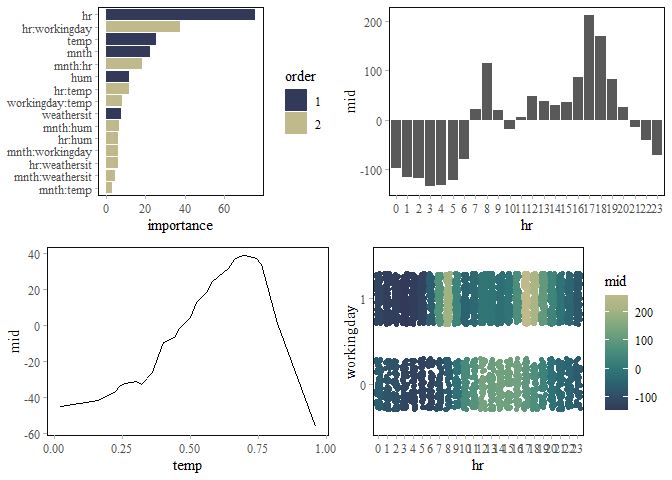
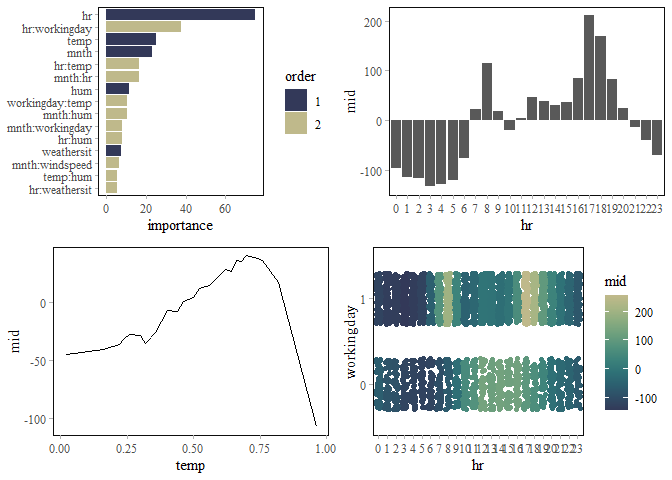
version 0.1.0.904 - update README.rmd

diff --git a/README.md b/README.md
@@ -30,14 +30,10 @@ pak::pak("ryo-asashi/midnight")
 This is a basic example which shows you how to solve a common problem:
 
 ``` r
-library(parsnip)
+library(tidymodels)
 library(midr)
 library(midnight)
-library(ggplot2)
 library(gridExtra)
-library(tune)
-library(rsample)
-library(dplyr)
 library(ISLR2)
 theme_set(theme_midr())
 ```
@@ -57,20 +53,11 @@ valid <- testing(holdout)
 
 ``` r
 # create a first-order mid surrogate model
-mid_spec_1 <- mid_surrogate(
-  params_main = 25, penalty = .1
-) %>%
+mid_spec_1 <- mid_surrogate() %>%
   set_mode("regression") %>%
-  set_engine("midr", verbosity = 0)
+  set_engine("midr")
 mid_spec_1
 #> mid surrogate Model Specification (regression)
-#> 
-#> Main Arguments:
-#>   penalty = 0.1
-#>   params_main = 25
-#> 
-#> Engine-Specific Arguments:
-#>   verbosity = 0
 #> 
 #> Computational engine: midr
 # fit the model
@@ -81,41 +68,47 @@ mid_1
 #> 
 #> 
 #> Call:
-#> interpret(x = x, y = y, weights = weights, k = k, lambda = penalty,
-#>  verbosity = ..1)
+#> interpret(x = x, y = y, weights = weights, k = k, lambda = penalty)
 #> 
 #> Intercept: 146.06
 #> 
 #> Main Effects:
 #> 7 main effect terms
 #> 
-#> Uninterpreted Variation Ratio: 0.30267
+#> Uninterpreted Variation Ratio: 0.30041
 # evaluate the model
-rmse <- weighted.loss(valid$bikers, predict(mid_1$fit, valid))
-cat(sprintf("\nRMSE: %.3f", rmse))
-#> 
-#> RMSE: 73.072
+augment(mid_1, new_data = valid) %>%
+  rmse(truth = bikers, estimate = .pred)
+#> # A tibble: 1 × 3
+#>   .metric .estimator .estimate
+#>   <chr>   <chr>          <dbl>
+#> 1 rmse    standard        72.9
 ```
+
+``` r
+grid.arrange(nrow = 2,
+ ggmid(mid.importance(mid_1$fit), theme = "moon", max.nterms = 15),
+ ggmid(mid_1$fit, "hr"),
+ ggmid(mid_1$fit, "temp"),
+ ggmid(mid_1$fit, "mnth")
+)
+```
+
+<img src="man/figures/README-ggmid_1d_fit-1.png" width="100%" />
 
 ``` r
 # create a second-order mid surrogate model via "custom formula"
 mid_spec_2 <- mid_surrogate(
-  params_main = 25, params_inter = 5, penalty = .1,
-  custom_formula = bikers ~ .^2
+  penalty = 0.000001, custom_formula = bikers ~ .^2
 ) %>%
   set_mode("regression") %>%
-  set_engine("midr", verbosity = 0)
+  set_engine("midr")
 mid_spec_2
 #> mid surrogate Model Specification (regression)
 #> 
 #> Main Arguments:
-#>   penalty = 0.1
-#>   params_main = 25
-#>   params_inter = 5
+#>   penalty = 1e-06
 #>   custom_formula = bikers ~ .^2
-#> 
-#> Engine-Specific Arguments:
-#>   verbosity = 0
 #> 
 #> Computational engine: midr
 # fit the model
@@ -127,7 +120,7 @@ mid_2
 #> 
 #> Call:
 #> interpret(formula = bikers ~ .^2, data = data, weights = weights,
-#>  verbosity = ..1, k = k, lambda = penalty)
+#>  k = k, lambda = penalty)
 #> 
 #> Intercept: 146.06
 #> 
@@ -137,12 +130,14 @@ mid_2
 #> Interactions:
 #> 21 interaction terms
 #> 
-#> Uninterpreted Variation Ratio: 0.076418
+#> Uninterpreted Variation Ratio: 0.069436
 # evaluate the model
-rmse <- weighted.loss(valid$bikers, predict(mid_2$fit, valid))
-cat(sprintf("\nRMSE: %.3f", rmse))
-#> 
-#> RMSE: 42.683
+augment(mid_2, new_data = valid) %>%
+  rmse(truth = bikers, estimate = .pred)
+#> # A tibble: 1 × 3
+#>   .metric .estimator .estimate
+#>   <chr>   <chr>          <dbl>
+#> 1 rmse    standard        44.3
 ```
 
 ``` r
@@ -252,10 +247,12 @@ mid_tune
 #> 
 #> Uninterpreted Variation Ratio: 0.080808
 # evaluate the model
-rmse <- weighted.loss(valid$bikers, predict(mid_tune$fit, valid))
-cat(sprintf("\nRMSE: %.3f", rmse))
-#> 
-#> RMSE: 43.047
+augment(mid_tune, new_data = valid) %>%
+  rmse(truth = bikers, estimate = .pred)
+#> # A tibble: 1 × 3
+#>   .metric .estimator .estimate
+#>   <chr>   <chr>          <dbl>
+#> 1 rmse    standard        43.0
 ```
 
 ``` r
